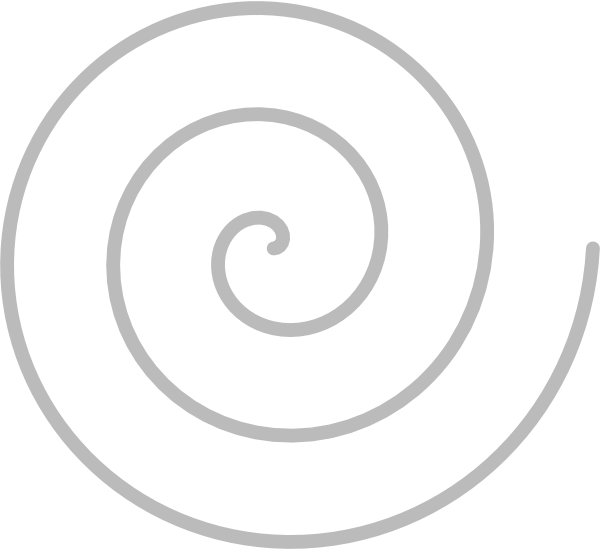
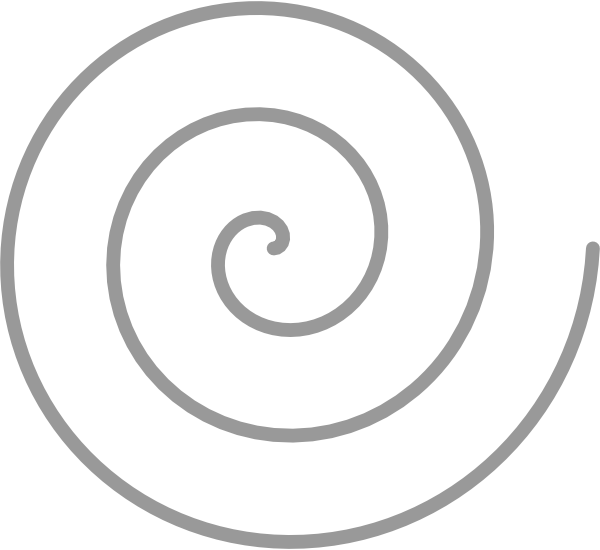
reformat: increase spiral opacity for contrast, hide/toggle stats, reformat data and enable done button to copy all data to clipboard

Changed region(s): [[0.0, 0.0, 1.0, 1.0]]

diff --git a/Creating Connections/ViewController.swift b/Creating Connections/ViewController.swift
@@ -9,6 +9,10 @@ import UIKit
 import PencilKit
 
 class ViewController: UIViewController, PKCanvasViewDelegate {
+    // app variables
+    public var log = ""
+    public var i = 1
+    private var debug = false
     
     // init spiral info
     private let spiral = UIImageView(image: UIImage(named: "archimedean_spiral.png"))
@@ -32,7 +36,7 @@ class ViewController: UIViewController, PKCanvasViewDelegate {
         let label = UILabel()
         label.textAlignment = .center
         label.textColor = .black
-        label.font = UIFont.systemFont(ofSize: 30, weight: .medium)
+        label.font = UIFont.systemFont(ofSize: 23, weight: .medium)
         return label
     }()
     
@@ -40,7 +44,7 @@ class ViewController: UIViewController, PKCanvasViewDelegate {
         let label = UILabel()
         label.textAlignment = .center
         label.textColor = .black
-        label.font = UIFont.systemFont(ofSize: 27, weight: .regular)
+        label.font = UIFont.systemFont(ofSize: 23, weight: .regular)
         return label
     }()
     
@@ -48,7 +52,7 @@ class ViewController: UIViewController, PKCanvasViewDelegate {
         let label = UILabel()
         label.textAlignment = .center
         label.textColor = .black
-        label.font = UIFont.systemFont(ofSize: 27, weight: .regular)
+        label.font = UIFont.systemFont(ofSize: 23, weight: .regular)
         return label
     }()
     
@@ -56,7 +60,7 @@ class ViewController: UIViewController, PKCanvasViewDelegate {
         let label = UILabel()
         label.textAlignment = .center
         label.textColor = .black
-        label.font = UIFont.systemFont(ofSize: 27, weight: .regular)
+        label.font = UIFont.systemFont(ofSize: 23, weight: .regular)
         return label
     }()
     
@@ -64,8 +68,26 @@ class ViewController: UIViewController, PKCanvasViewDelegate {
     private lazy var clearButton: UIButton = {
         let button = UIButton(type: .system)
         button.setTitle("Clear", for: .normal)
-        button.titleLabel?.font = UIFont.systemFont(ofSize: 27, weight: .medium)
+        button.titleLabel?.font = UIFont.systemFont(ofSize: 25, weight: .medium)
         button.addTarget(self, action: #selector(clearCanvas(_:)), for: .touchUpInside)
+        return button
+    }()
+    
+    // done button
+    private lazy var doneButton: UIButton = {
+        let button = UIButton(type: .system)
+        button.setTitle("Done", for: .normal)
+        button.titleLabel?.font = UIFont.systemFont(ofSize: 25, weight: .medium)
+        button.addTarget(self, action: #selector(done(_:)), for: .touchUpInside)
+        return button
+    }()
+    
+    // debug button
+    private lazy var debugButton: UIButton = {
+        let button = UIButton(type: .system)
+        button.setTitle("D", for: .normal)
+        button.titleLabel?.font = UIFont.systemFont(ofSize: 66, weight: .medium)
+        button.addTarget(self, action: #selector(toggleDebug(_:)), for: .touchUpInside)
         return button
     }()
 
@@ -78,26 +100,39 @@ class ViewController: UIViewController, PKCanvasViewDelegate {
         
         // add content to view
         view.addSubview(canvasView)
-        view.addSubview(infoLabel)
-        view.addSubview(infoLabel1)
-        view.addSubview(infoLabel2)
-        view.addSubview(infoLabel3)
+        //view.addSubview(infoLabel)
+        //view.addSubview(infoLabel1)
+        //view.addSubview(infoLabel2)
+        //view.addSubview(infoLabel3)
         view.addSubview(clearButton)
+        view.addSubview(doneButton)
+        view.addSubview(debugButton)
         view.addSubview(spiral)
         
-        // center spiral but shift down 50 to account for info labels at top
+        // center spiral but shift down to account for info labels at top
         spiral.translatesAutoresizingMaskIntoConstraints = false
         spiral.centerXAnchor.constraint(equalTo: view.centerXAnchor).isActive = true
-        spiral.centerYAnchor.constraint(equalTo: view.centerYAnchor, constant: 55).isActive = true
+        spiral.centerYAnchor.constraint(equalTo: view.centerYAnchor, constant: 0).isActive = true
         
-        // position button at bottom
+        // position buttons at bottom
         clearButton.translatesAutoresizingMaskIntoConstraints = false
         NSLayoutConstraint.activate([
             clearButton.bottomAnchor.constraint(equalTo: view.safeAreaLayoutGuide.bottomAnchor, constant: -16),
-            clearButton.leadingAnchor.constraint(equalTo: view.safeAreaLayoutGuide.leadingAnchor, constant: 16),
-            clearButton.trailingAnchor.constraint(equalTo: view.safeAreaLayoutGuide.trailingAnchor, constant: -16),
+            clearButton.leadingAnchor.constraint(equalTo: view.safeAreaLayoutGuide.leadingAnchor, constant: 50),
             clearButton.heightAnchor.constraint(equalToConstant: 44)
         ])
+        doneButton.translatesAutoresizingMaskIntoConstraints = false
+        NSLayoutConstraint.activate([
+            doneButton.bottomAnchor.constraint(equalTo: view.safeAreaLayoutGuide.bottomAnchor, constant: -16),
+            doneButton.trailingAnchor.constraint(equalTo: view.safeAreaLayoutGuide.trailingAnchor, constant: -50),
+            doneButton.heightAnchor.constraint(equalToConstant: 44)
+        ])
+        debugButton.translatesAutoresizingMaskIntoConstraints = false
+        
+        // button colors
+        clearButton.setTitleColor(.black, for: .normal)
+        doneButton.setTitleColor(.black, for: .normal)
+        debugButton.setTitleColor(.white, for: .normal) // hide
         
         // settings for canvas
         canvasView.viewController = self
@@ -188,5 +223,30 @@ class ViewController: UIViewController, PKCanvasViewDelegate {
         infoLabel1.text = "Location:"
         infoLabel2.text = "Pressure:"
         infoLabel3.text = "Angle:"
+    }
+    
+    // done - copy to clipboard
+    @objc func done(_ sender: UIButton) {
+        UIPasteboard.general.string = log
+        log = ""
+        i = 1
+        clearCanvas(doneButton)
+    }
+    
+    // toggle debug stats
+    @objc func toggleDebug(_ sender: UIButton) {
+        if (debug) {
+            infoLabel.removeFromSuperview();
+            infoLabel1.removeFromSuperview();
+            infoLabel2.removeFromSuperview();
+            infoLabel3.removeFromSuperview();
+            debug = false
+        } else {
+            view.addSubview(infoLabel)
+            view.addSubview(infoLabel1)
+            view.addSubview(infoLabel2)
+            view.addSubview(infoLabel3)
+            debug = true
+        }
     }
 }

diff --git a/Creating Connections/CustomCanvasView.swift b/Creating Connections/CustomCanvasView.swift
@@ -9,11 +9,8 @@ import UIKit
 import PencilKit
 
 class CustomCanvasView: PKCanvasView {
-    
+    // load view controller
     weak var viewController: ViewController?
-    
-    // stroke counter
-    private var i = 1
     
     // process each touch
     func processTouch(touches: Set<UITouch>) {
@@ -29,7 +26,10 @@ class CustomCanvasView: PKCanvasView {
             let timestamp = round(100 * touch.timestamp) / 100
             
             // log data to console
-            print("\(location) - \(formatDouble(closest)) - \(formatDouble(force)) - \(altAngle), \(aziAngle) - \(formatDouble(timestamp))")
+            let log_line = "\(location), \(formatDouble(closest)), \(formatDouble(force)), (\(altAngle),\(aziAngle)), \(formatDouble(timestamp))"
+            print(log_line)
+            // update log as well
+            viewController?.log += log_line + "\n"
             
             // update labels
             viewController?.infoLabel1.text = "Location: \(location)"
@@ -100,7 +100,7 @@ class CustomCanvasView: PKCanvasView {
         super.touchesBegan(touches, with: event)
         
         // log info and process touch
-        print("~~~~~~~~~~~~~~~~~ \(i) ~~~~~~~~~~~~~~~~~~~")
+        print("~~~~~~~~~~~~~~~~~ \(viewController!.i) ~~~~~~~~~~~~~~~~~~~")
         print("------- Max Possible Force: \(touches.first!.maximumPossibleForce) -------")
         print("- coords, distance, pressure, angles, timestamp -")
         processTouch(touches: touches)
@@ -118,10 +118,13 @@ class CustomCanvasView: PKCanvasView {
     override func touchesEnded(_ touches: Set<UITouch>, with event: UIEvent?) {
         super.touchesEnded(touches, with: event)
         
-        // process info, close log section and increment counter
+        // process info, close log section
         processTouch(touches: touches)
-        print("~~~~~~~~~~~~~~~~~ \(i) ~~~~~~~~~~~~~~~~~~~\n")
-        i += 1
+        print("~~~~~~~~~~~~~~~~~ \(viewController!.i) ~~~~~~~~~~~~~~~~~~~\n")
+        
+        // update log and increment counter
+        viewController?.log += "~\(viewController!.i)\n"
+        viewController!.i += 1
         
         // clear labels
         viewController?.infoLabel.text = "Creating Connections"
